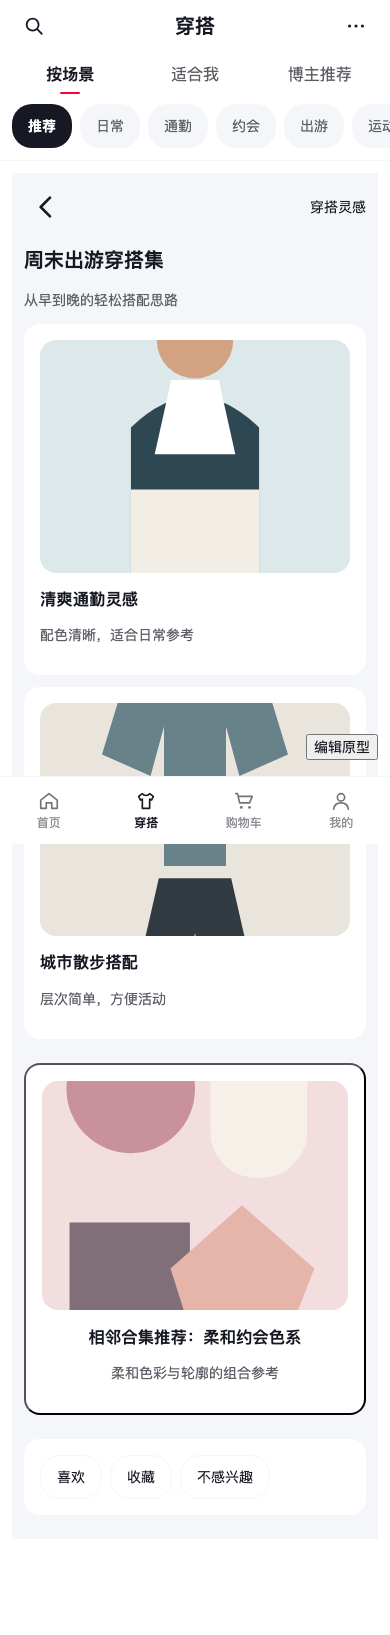
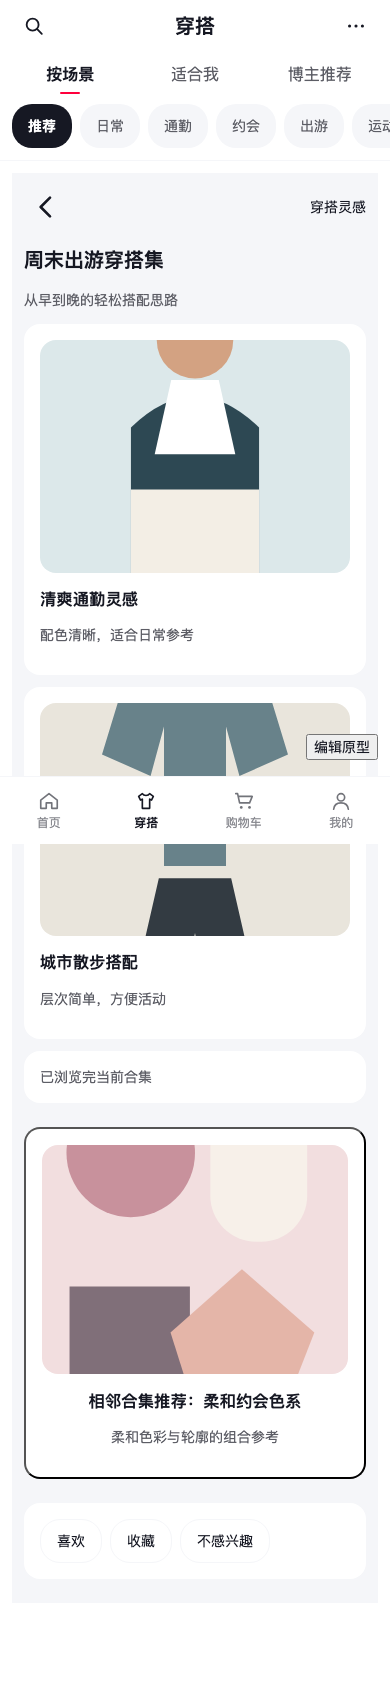
test: verify outfit content end state

diff --git a/work/douyin-outfit-content-feed/demo-summary.md b/work/douyin-outfit-content-feed/demo-summary.md
@@ -12,11 +12,11 @@
 
 结论：`DONE`。首次截图审查发现隐藏的 `#status` 仍参与布局并产生约 1600px 异常空白；产品修复 `90bc2614d73d9d1e9adfee04a524ecb4a9be3fea` 增加 `.status[hidden] { display:none }` 后，已重新执行全量浏览器验收、替换全部截图并人工复核。异常空白在两个视口均已消失，视觉门禁通过。
 
-浏览器验收：使用仓库外的 bundled Playwright，从 `index.html` 入口 UI 在 390×844 与 320×700 两个视口分别独立执行完整交互套件。最终结果为 `160 browser checks passed`、退出码 0；两个视口均验证 `#status` 隐藏、计算样式为 `display:none` 且布局高度为 0。每个视口都覆盖三个频道及其全部筛选、三类卡片详情与返回上下文、搜索过滤/无结果清除/关闭与焦点恢复、主题头图进入合集、三类比例骨架屏、保留内容的内联错误与重试、反馈失败回滚与重试、作者昵称和场景/风格标签、非当前底部导航禁用状态、喜欢/收藏/关注/不感兴趣/撤销、加载/空/失败/图片失败/正常状态、编辑标题与位置尺寸、最大请求值安全收敛、几何撤销和排除控件、预览隐藏且 inert、快速切换 latest-wins、加载中打开详情不被覆盖，以及横向溢出、固定栏空间、图片 natural dimensions、页面错误和控制台错误。
+浏览器验收：使用仓库外的 bundled Playwright，从 `index.html` 入口 UI 在 390×844 与 320×700 两个视口分别独立执行完整交互套件。最终结果为 `180 browser checks passed`、退出码 0；两个视口均验证 `#status` 隐藏、计算样式为 `display:none` 且布局高度为 0。每个视口都覆盖三个频道及其全部筛选、三类卡片详情与返回上下文、搜索过滤/无结果清除/关闭与焦点恢复、主题头图进入合集、三类比例骨架屏、保留内容的内联错误与重试、反馈失败回滚与重试、作者昵称和场景/风格标签、非当前底部导航禁用状态、ready 内容流终点及相邻合集推荐、合集详情终点顺序、加载/错误/空/搜索无结果/图片失败时终点不误显示、喜欢/收藏/关注/不感兴趣/撤销、编辑标题与位置尺寸、最大请求值安全收敛、几何撤销和排除控件、预览隐藏且 inert、快速切换 latest-wins、加载中打开详情不被覆盖，以及横向溢出、固定栏空间、图片 natural dimensions、页面错误和控制台错误。
 
-证据稳定性：截图前重新载入标准首页状态，等待 ready 内容、toast 脱离 DOM、目标视图可见、连续两帧布局稳定，并滚动到标准顶部位置。完整脚本连续执行两次均为 160/160 通过，第二次生成的四张 PNG 与第一次逐字节相同：`detail-320x700 9bd49ac7…`、`detail-390x844 3758f6af…`、`feed-320x700 cfd5e5cd…`、`feed-390x844 0ed59028…`；截图中无残留状态提示。Playwright 由 `CODEX_NODE_MODULES`、`NODE_PATH` 或当前用户的 bundled runtime 路径发现，不依赖固定账号目录。
+证据稳定性：截图前重新载入标准首页状态，等待 ready 内容、toast 脱离 DOM、目标视图可见、连续两帧布局稳定，并滚动到标准顶部位置。完整脚本连续执行两次均为 180/180 通过，第二次生成的四张 PNG 与第一次逐字节相同：`detail-320x700 72ccb0c3…`、`detail-390x844 581494a5…`、`feed-320x700 b5dfb6fe…`、`feed-390x844 621e7d0e…`；截图中无残留状态提示，feed 全页证据可见“已浏览完当前主题”，合集详情全页证据可见“已浏览完当前合集”。Playwright 由 `CODEX_NODE_MODULES`、`NODE_PATH` 或当前用户的 bundled runtime 路径发现，不依赖固定账号目录。
 
-Task 1–5 自动测试：`node --test qa/outfit-content-feed-state.test.mjs qa/outfit-content-feed-contract.test.mjs`，35/35 通过，0 失败，退出码 0。
+Task 1–5 自动测试：`node --test qa/outfit-content-feed-state.test.mjs qa/outfit-content-feed-contract.test.mjs`，37/37 通过，0 失败，退出码 0。
 
 已安装 Skill 门禁（`/Users/bytedance/.codex/skills/prd-to-editable-demo`）：
 
